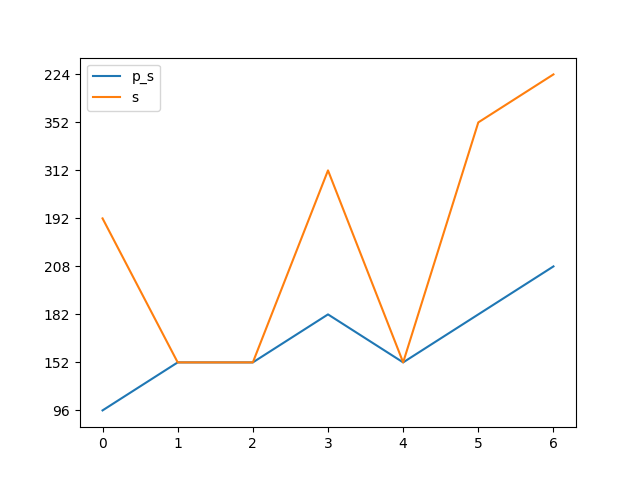
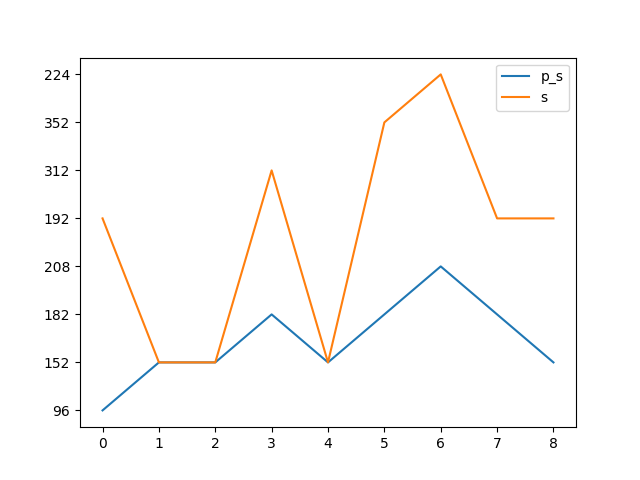
0x0008

diff --git a/benchmark.md b/benchmark.md
@@ -16,7 +16,9 @@ Synthesising 0x0006 pexact:208 r=4 exact:224 r=3
 
 Synthesising 0x0007 pexact:182 r=4 exact:192 r=3
 
-<img src=benchmark_r1.png width=400 heigth=400>
+Synthesising 0x0008 pexact:152 r=3 exact:192 r=3
 
-<img src=benchmark_s1.png width=400 heigth=400>
+<img src=benchmark_r0.png width=400 heigth=400>
+
+<img src=benchmark_s0.png width=400 heigth=400>
 
